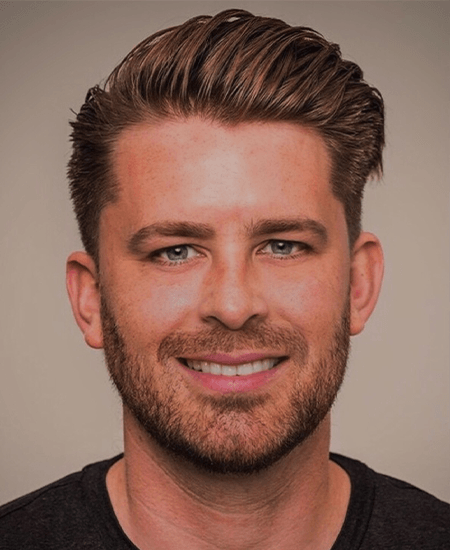
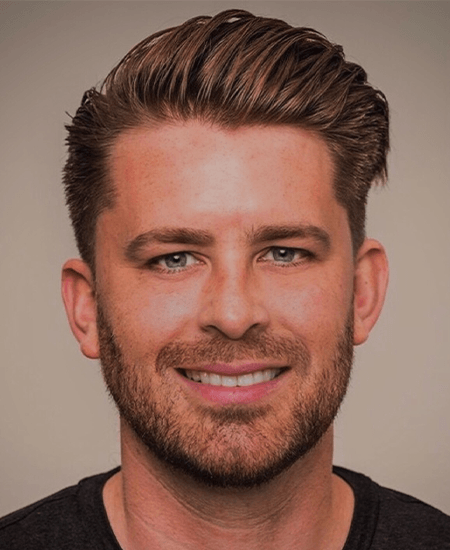
Fixed image/profile layput for Lewis Reid

Changed region(s): [[0.0, 0.0309, 1.0, 1.0], [0.4978, 0.9891, 0.56, 1.0]]

diff --git a/cast.html b/cast.html
@@ -186,7 +186,7 @@
                                             <br> Who Get’s the Cat? - Bryteye productions 2021
                                             <br> Night of glass -Zion dance company 2018
                                             <br> What’s my first line? - Baby Beach productions 2018
-                                            <br> Barbara Cartland, in the pink - Leaping Hare productions 2015
+                                            <br> Barbara Cartland, in the pink - Leaping Hare productions 2015&emsp;&emsp;&emsp;&emsp;&emsp;&emsp;&emsp;
                                             <br> Ridley’s Prospects - Naughty Little Geezer productions 2017
                                             <br>
                                             <br> Television credits:
